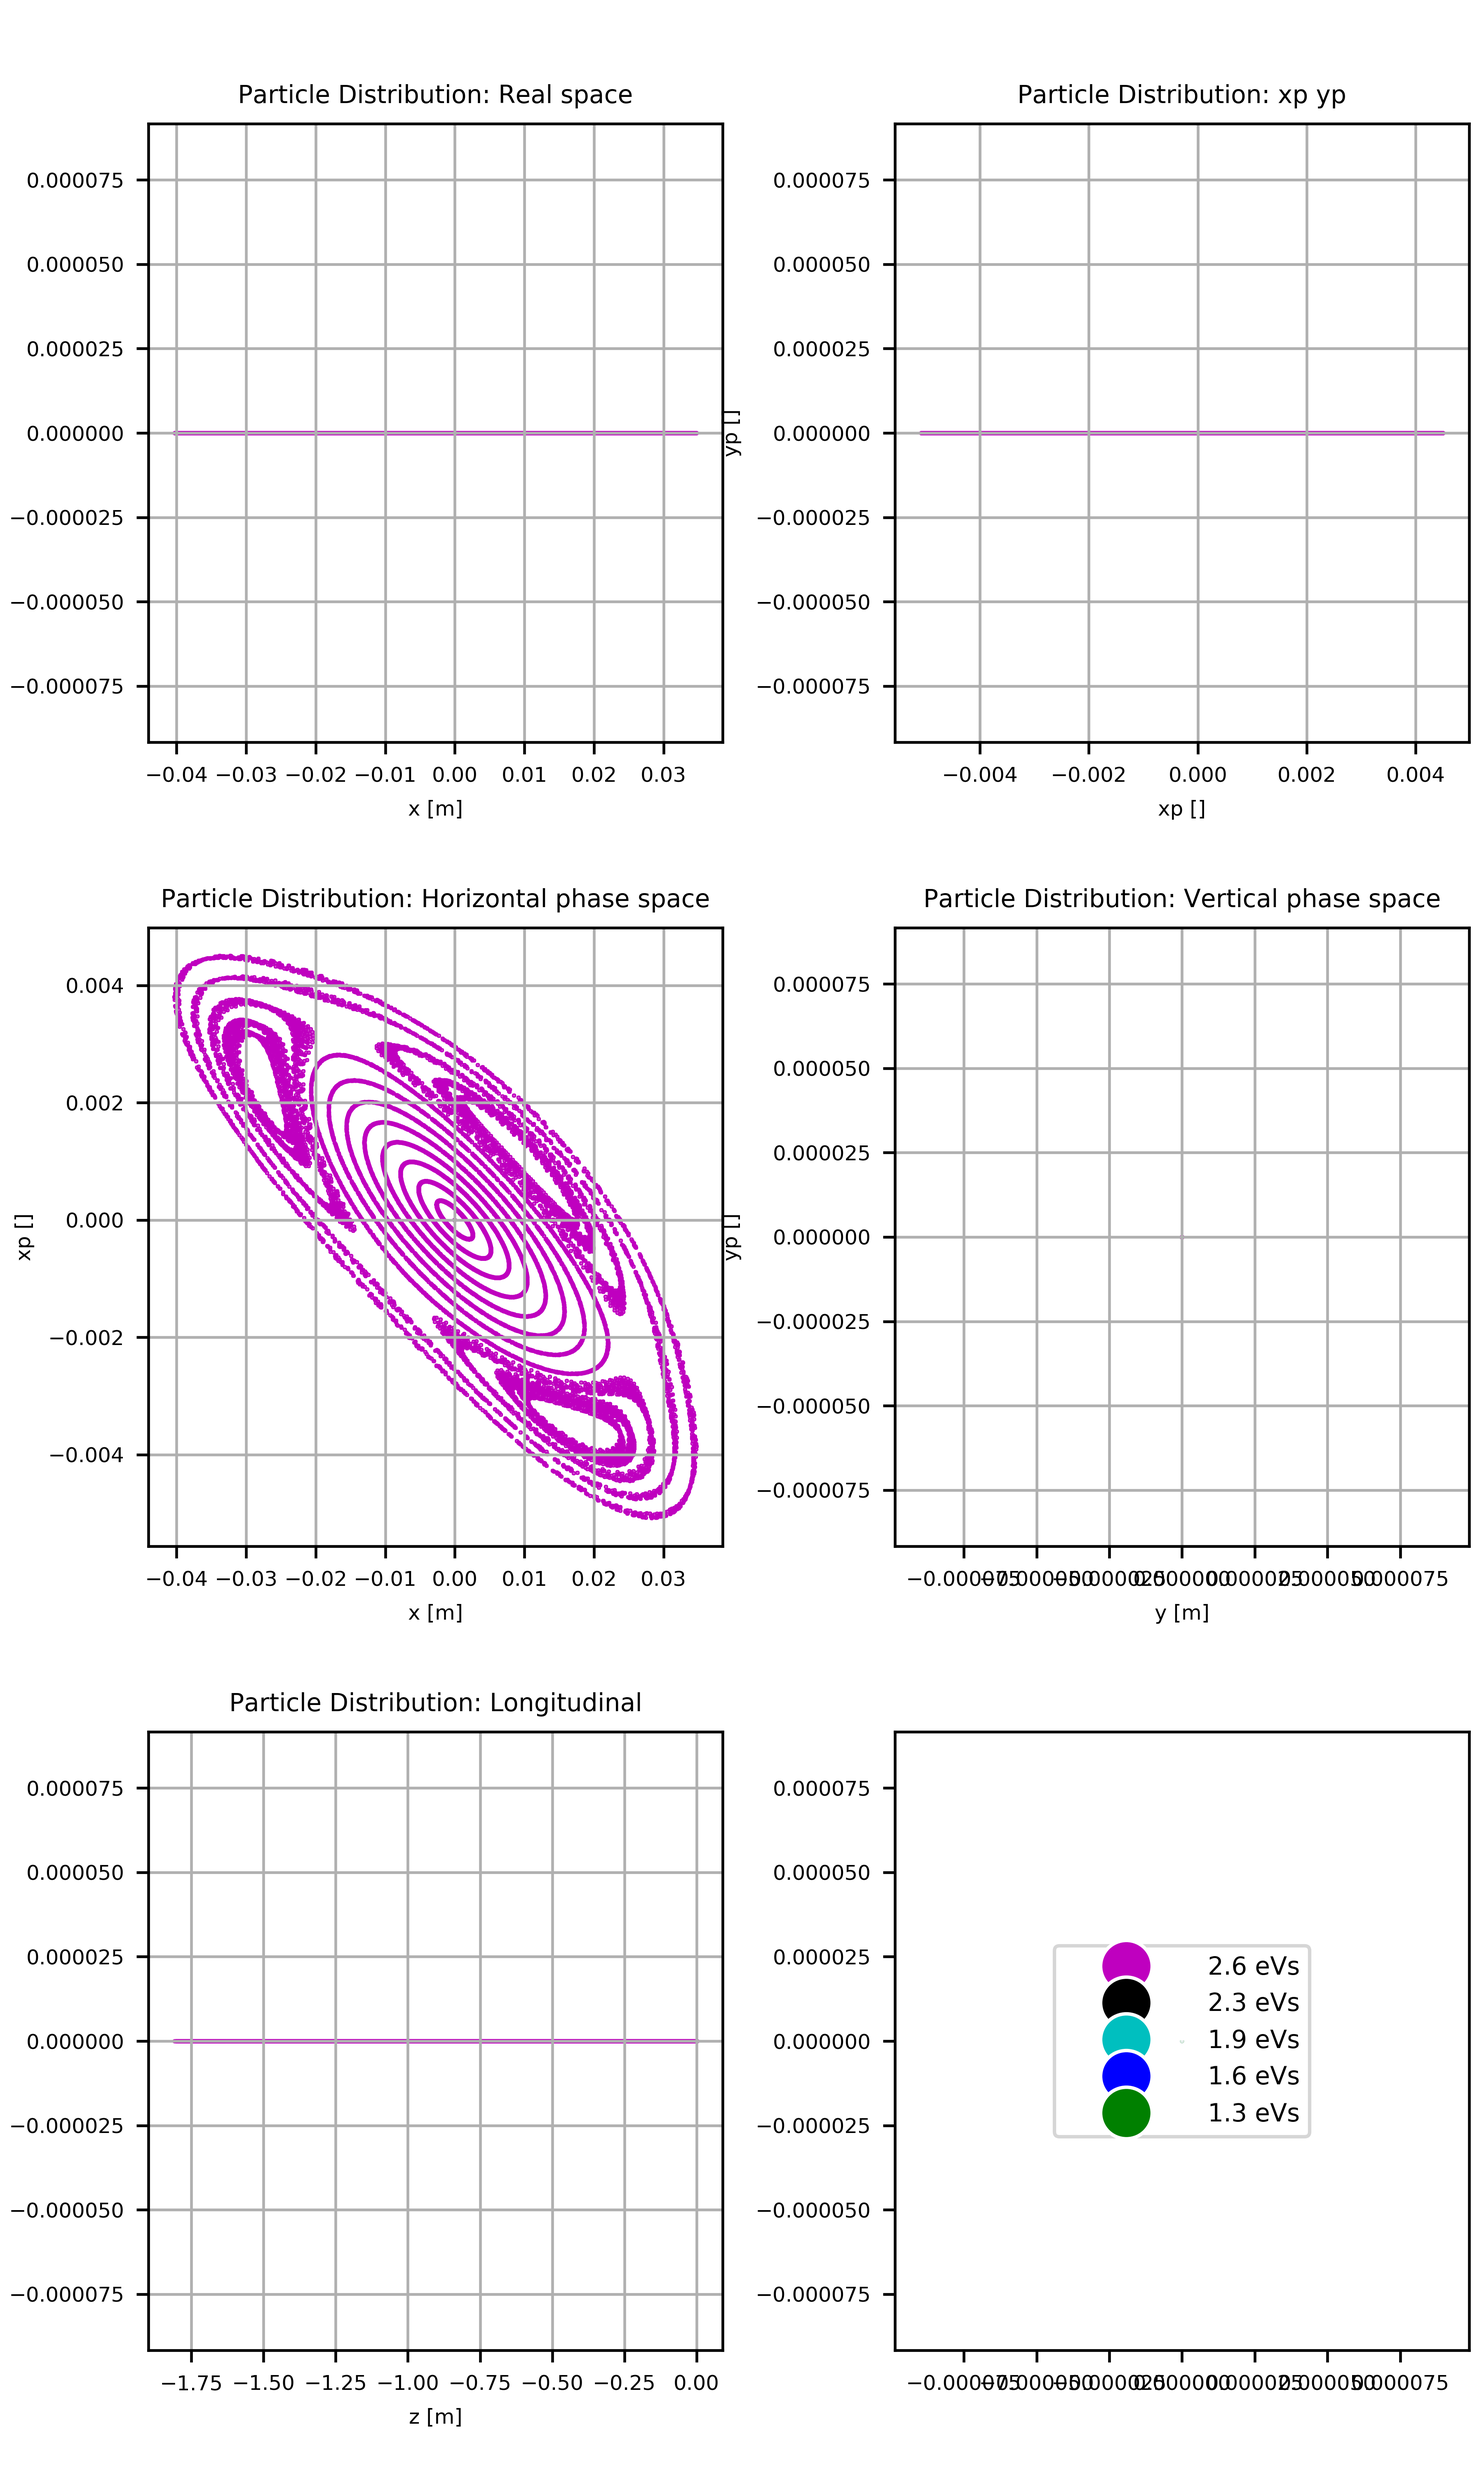
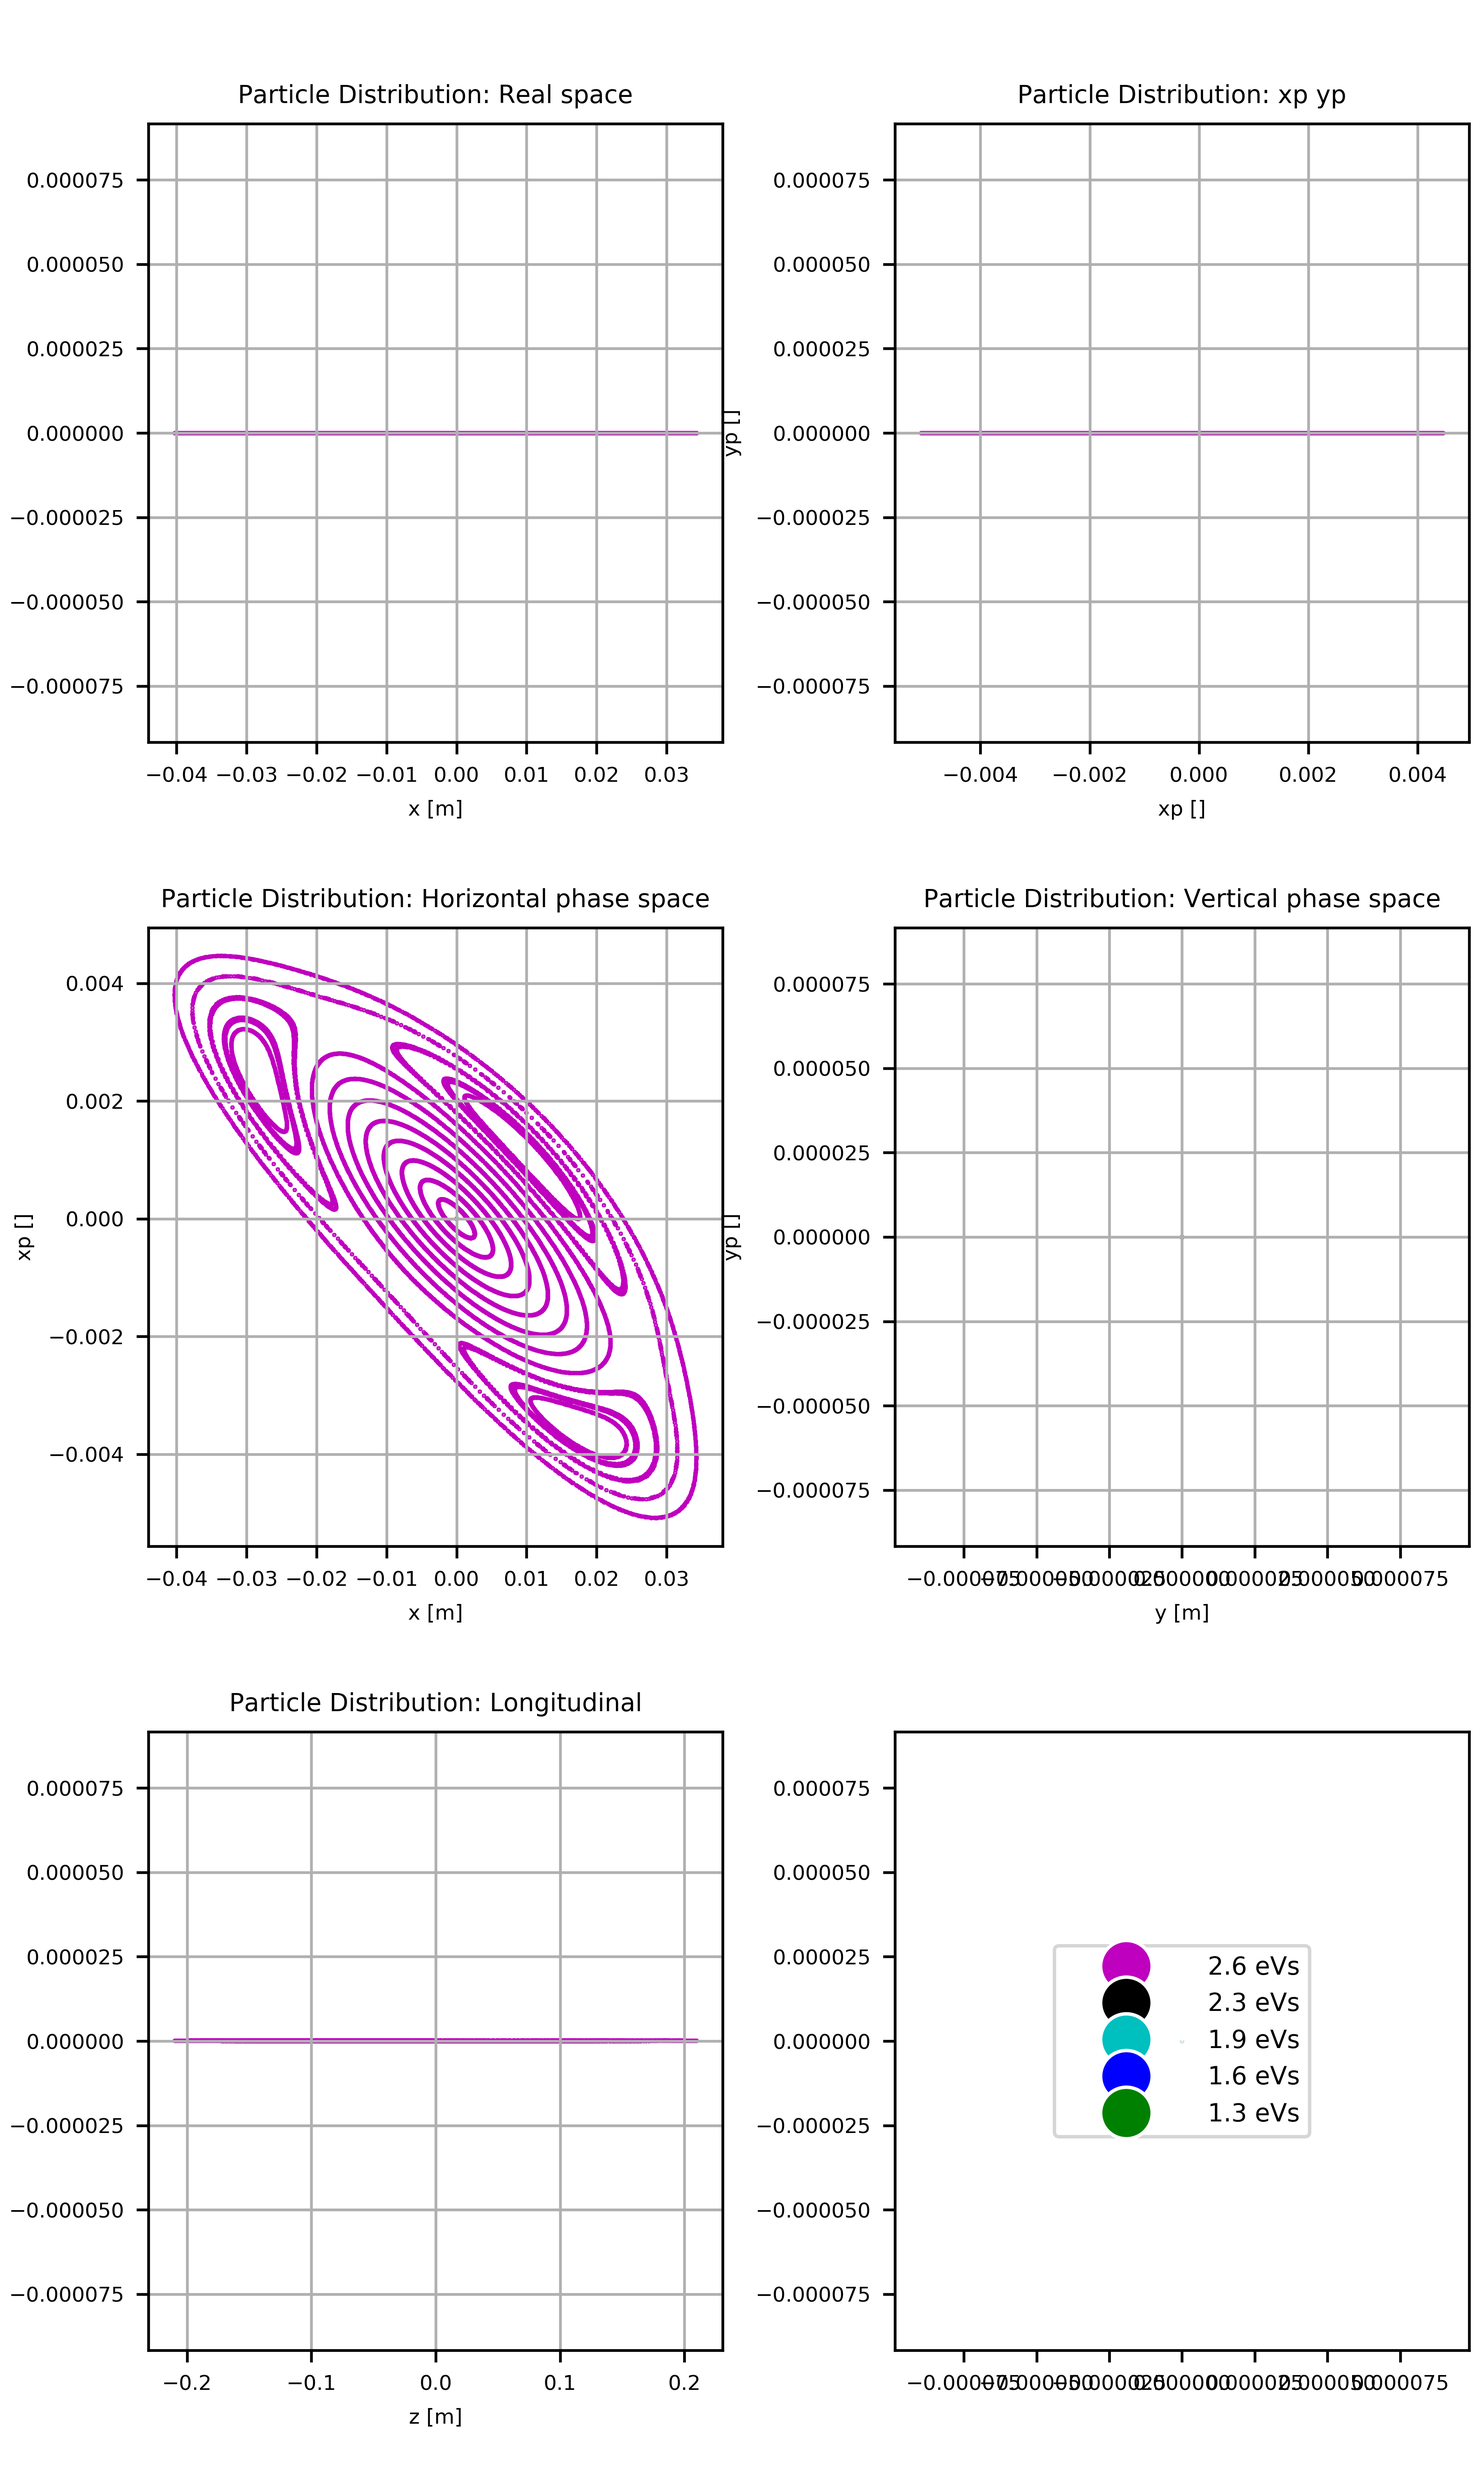
SIS18: Added Step7 trapping plots

diff --git a/Plotting/Tune/plot_poincare.py b/Plotting/Tune/plot_poincare.py
@@ -106,54 +106,57 @@ fig1.subplots_adjust(wspace=0.3, hspace=0.3, left=0.1, right=0.99, top=0.95, bot
 no_input_files = len(iterators)
 points_per_file = len(d[1]['particles']['x'][0][0][0])
 points_per_plot = no_input_files * points_per_file
-total_points = 5 * points_per_plot
-print '\nPlotting xy, please be patient.\nRemember we\'re plotting ',points_per_file,' points, for ',no_input_files,' files!\nThats ',points_per_plot,' points in total for each of the 5 plots.\nThat\'s a grand total of ', total_points,'!!!'
-for i in iterators:
-        ax1.scatter(d[i]['particles']['x'][0][0][0], d[i]['particles']['y'][0][0][0], color='m', label='2.6 eVs');
-        
-# ~ ax1.legend();
+total_points = 5 * points_per_plot        
+
 ax1.set_xlabel('x [m]');
 ax1.set_ylabel('y [m]');
 ax1.set_title('Particle Distribution: Real space');
 ax1.grid(True);
 
-print '\nPlotting xp yp, we appreciate your understanding in this trying time...'
+print '\nPlotting xy, please be patient.\nRemember we\'re plotting ',points_per_file,' points, for ',no_input_files,' files!\nThats ',points_per_plot,' points in total for each of the 5 plots.\nThat\'s a grand total of ', total_points,'!!!'
 for i in iterators:
-        ax2.scatter(d[i]['particles']['xp'][0][0][0], d[i]['particles']['yp'][0][0][0], color='m', label='2.6 eVs');
+        ax1.scatter(d[i]['particles']['x'][0][0][0], d[i]['particles']['y'][0][0][0], color='m', label='2.6 eVs');
+
         
 ax2.set_xlabel('xp []');
 ax2.set_ylabel('yp []');
 ax2.set_title('Particle Distribution: xp yp');
 ax2.grid(True);
 
+print '\nPlotting xp yp, we appreciate your understanding in this trying time...'
+for i in iterators:
+        ax2.scatter(d[i]['particles']['xp'][0][0][0], d[i]['particles']['yp'][0][0][0], color='m', label='2.6 eVs');
+
+
+ax3.set_xlabel('x [m]');
+ax3.set_ylabel('xp []');
+ax3.set_title('Particle Distribution: Horizontal phase space');
+ax3.grid(True);
+
 print '\nPlotting x xp, we apologise for any inconvenience...'
 for i in iterators:
         ax3.scatter(d[i]['particles']['x'][0][0][0], d[i]['particles']['xp'][0][0][0], color='m', label='2.6 eVs', marker=',');
 
-ax3.set_xlabel('x [m]');
-ax3.set_ylabel('xp []');
-# ~ ax3.set_xlim();
-# ~ ax3.set_ylim();
-ax3.set_title('Particle Distribution: Horizontal phase space');
-ax3.grid(True);
-
-print '\nPlotting y yp, OK almost there, this is kinda taking the piss. We get it :-)'
-for i in iterators:
-        ax4.scatter(d[i]['particles']['y'][0][0][0], d[i]['particles']['yp'][0][0][0], color='m', label='2.6 eVs');
 
 ax4.set_xlabel('y [m]');
 ax4.set_ylabel('yp []');
 ax4.set_title('Particle Distribution: Vertical phase space');
 ax4.grid(True);
 
-print '\nPlotting z dE, whoop last one. Just this and the legend plot and we are outta here!'
+print '\nPlotting y yp, OK almost there, this is kinda taking the piss. We get it :-)'
 for i in iterators:
-        ax5.scatter(d[i]['particles']['z'][0][0][0], d[i]['particles']['dE'][0][0][0], color='m', label='2.6 eVs');
+        ax4.scatter(d[i]['particles']['y'][0][0][0], d[i]['particles']['yp'][0][0][0], color='m', label='2.6 eVs');
+
 
 ax5.set_xlabel('z [m]');
 ax5.set_ylabel('dE [GeV]');
 ax5.set_title('Particle Distribution: Longitudinal');
 ax5.grid(True);
+
+print '\nPlotting z dE, whoop last one. Just this and the legend plot and we are outta here!'
+for i in iterators:
+        ax5.scatter(d[i]['particles']['z'][0][0][0], d[i]['particles']['dE'][0][0][0], color='m', label='2.6 eVs');
+
 
 ax6.scatter(0,0,color='m', label='2.6 eVs')
 ax6.scatter(0,0,color='k', label='2.3 eVs')
@@ -169,7 +172,7 @@ legend_elements = [Line2D([0], [0], marker='o', color='w', label='2.6 eVs', mark
 
 ax6.legend(handles=legend_elements, loc='center')
 
-savename = str('Poincare_Dist_0-4p5sig_Multipole_0p2_Matched.png')
+savename = str('Poincare_Dist_0-4sigx_I=1.95e+9.png')
 # ~ fig1.savefig('Emittance_y.png', transparent=True);
 print '\nJust saving this bad boy, in case you forgot the filename is: '
 print savename
